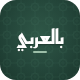
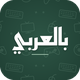
أيقونة جديدة (رسومات ألعاب خفيفة) + ربط تلقائي: الجوال يلقى شاشة إل جي ويفتح التطبيق بعنوانه
Claude-Session: https://claude.ai/code/session_01TLRLk8D8xChMBMkLz4H4wP

diff --git a/android/app/src/main/java/com/inarabic/lg/LgKeepAwake.kt b/android/app/src/main/java/com/inarabic/lg/LgKeepAwake.kt
@@ -10,6 +10,10 @@
 // device?"), and then every minute presses a key nobody uses (BLUE). If the TV still reports
 // "Screen Saver" / "Screen Off", it turns the screen straight back on.
 //
+// The same link also connects the TV app to the phone by itself (linkScreens): the phone finds the LG TVs on the
+// network (SSDP, the way LG's own remote app does), and opens «بالعربي» on them with the phone's address, so the
+// TV never has to look for the phone (its address may have changed since last time).
+//
 // The pairing manifest (assets/lg-remote-pairing.json) is the public one from the lgtv2 library (MIT).
 
 package com.inarabic.lg
@@ -67,6 +71,74 @@ object LgKeepAwake
 		prefs().getString("last_ip", null)?.let { start(context, it) } // the pointer socket presses once it opens
 	}
 
+	/**
+	 * Opens «بالعربي» on the LG TVs with this phone's address (the QR was scanned, "start playing" was tapped, or the
+	 * app was opened). [foregroundOnly]: only if our app is already on the TV screen (opening the phone app must not
+	 * take over a TV that is showing something else). [hint]: a TV address already known (from its QR).
+	 */
+	fun linkScreens(context: Context, foregroundOnly: Boolean, hint: String? = null)
+	{
+		appContext = context.applicationContext
+		if(com.inarabic.link.LinkServer.hasLgScreen()) return
+		Thread {
+			val ips = LinkedHashSet<String>()
+			hint?.takeIf { it.isNotBlank() }?.let { ips += it }
+			prefs().getString("last_ip", null)?.let { ips += it }
+			ips += findTvs(appContext!!)
+			Log.i(TAG, "link: TVs $ips")
+			synchronized(this) {
+				for(ip in ips)
+				{
+					// a TV that refused earlier (or gave up) is asked again: this time you asked for it
+					val tv = tvs[ip]?.takeIf { !it.closed } ?: Tv(ip).also { tvs[ip] = it; it.connect() }
+					tv.wantLaunch(foregroundOnly)
+				}
+			}
+		}.start()
+	}
+
+	/** LG TVs on the home network: they answer an SSDP search for their second-screen service */
+	private fun findTvs(context: Context): List<String>
+	{
+		val out = LinkedHashSet<String>()
+		val wifi = context.applicationContext.getSystemService(Context.WIFI_SERVICE) as android.net.wifi.WifiManager
+		val lock = try { wifi.createMulticastLock("inarabic-ssdp").apply { setReferenceCounted(false); acquire() } } catch(e: Exception) { null }
+		try
+		{
+			java.net.DatagramSocket().use { s ->
+				s.soTimeout = 600
+				val msg = ("M-SEARCH * HTTP/1.1\r\nHOST: 239.255.255.250:1900\r\nMAN: \"ssdp:discover\"\r\nMX: 1\r\n" +
+					"ST: urn:lge-com:service:webos-second-screen:1\r\n\r\n").toByteArray()
+				val group = java.net.InetAddress.getByName("239.255.255.250")
+				repeat(2) { s.send(java.net.DatagramPacket(msg, msg.size, group, 1900)) }
+				val end = System.currentTimeMillis() + 2500
+				val buf = ByteArray(2048)
+				while(System.currentTimeMillis() < end)
+				{
+					try
+					{
+						val pk = java.net.DatagramPacket(buf, buf.size)
+						s.receive(pk)
+						val txt = String(pk.data, 0, pk.length)
+						if(txt.contains("webos", true) || txt.contains("lge", true)) pk.address?.hostAddress?.let { out += it }
+					}
+					catch(e: java.net.SocketTimeoutException) { }
+				}
+			}
+		}
+		catch(e: Exception) { Log.w(TAG, "ssdp ${e.message}") }
+		finally { try { lock?.release() } catch(e: Exception) { } }
+		return out.toList()
+	}
+
+	/** this phone's address on the TV's network */
+	private fun phoneIpFor(tvIp: String): String?
+	{
+		val all = com.inarabic.link.LinkServer.addresses()
+		val net = tvIp.substringBeforeLast('.')
+		return all.firstOrNull { it.substringBeforeLast('.') == net } ?: all.firstOrNull()
+	}
+
 	/** no LG screen at this address any more */
 	@Synchronized fun stop(ip: String)
 	{
@@ -85,6 +157,31 @@ object LgKeepAwake
 		var secure = true
 		var unsigned = false
 		var nextId = 0
+		@Volatile var registered = false
+		/** open our app on the TV once registered: 0 no, 1 only if it is already on screen, 2 yes */
+		@Volatile var launchWanted = 0
+
+		fun wantLaunch(foregroundOnly: Boolean)
+		{
+			launchWanted = maxOf(launchWanted, if(foregroundOnly) 1 else 2)
+			if(registered) main?.let { doLaunch(it) }
+		}
+
+		fun doLaunch(c: WebSocketClient)
+		{
+			val w = launchWanted; launchWanted = 0
+			if(w == 0 || com.inarabic.link.LinkServer.hasLgScreen()) return
+			if(w == 1) send(c, "request", "fg", "ssap://com.webos.applicationManager/getForegroundAppInfo") else launch(c)
+		}
+
+		/** opens «بالعربي» on the TV (or wakes it if it is open) with the phone's address */
+		fun launch(c: WebSocketClient)
+		{
+			val phone = phoneIpFor(ip) ?: return
+			Log.i(TAG, "$ip: open the TV app, phone $phone")
+			send(c, "request", "launch${nextId++}", "ssap://system.launcher/launch",
+				JSONObject().put("id", "com.inarabic.lg").put("params", JSONObject().put("phone", phone)))
+		}
 
 		fun connect()
 		{
@@ -110,6 +207,7 @@ object LgKeepAwake
 
 		fun lost()
 		{
+			registered = false
 			task?.cancel(false); task = null
 			try { pointer?.close() } catch(e: Exception) { }
 			pointer = null
@@ -170,7 +268,10 @@ object LgKeepAwake
 					prefs().edit().putString("key_$ip", p.optString("client-key")).apply()
 					send(c, "request", "pointer", "ssap://com.webos.service.networkinput/getPointerInputSocket")
 					send(c, "subscribe", "power", "ssap://com.webos.service.tvpower/power/getPowerState")
+					registered = true
+					doLaunch(c)
 				}
+				id == "fg" -> if(p.optString("appId") == "com.inarabic.lg") launch(c)
 				id == "pointer" && p.optString("socketPath").isNotEmpty() -> openPointer(p.optString("socketPath"))
 				id == "power" ->
 				{
@@ -199,7 +300,7 @@ object LgKeepAwake
 			pointer = p
 			try { p.connect() } catch(e: Exception) { }
 			task?.cancel(false)
-			task = timer.scheduleAtFixedRate(Runnable { press() }, PRESS_EVERY_S, PRESS_EVERY_S, TimeUnit.SECONDS)
+			task = timer.scheduleAtFixedRate(Runnable { if(com.inarabic.link.LinkServer.hasLgScreen()) press() }, PRESS_EVERY_S, PRESS_EVERY_S, TimeUnit.SECONDS)
 		}
 
 		fun press()

diff --git a/lg/index.html b/lg/index.html
@@ -107,15 +107,17 @@
     for (var i = 0; i < 16; i++) cfg.token += '0123456789abcdef'.charAt(Math.floor(Math.random() * 16));
     store.set('token', cfg.token);
   }
-  // this screen's QR code: the phone scans it once and from then on accepts this screen
-  (function () {
+  // this screen's QR code: the phone scans it once and from then on accepts this screen; with the TV's own
+  // address in it (when the TV tells it), the phone reaches the TV straight away and gives it its address
+  function drawQr(tvIp) {
     try {
       var q = qrcode(0, 'M');
-      q.addData('inarabic:pair?t=' + cfg.token + '&n=' + encodeURIComponent('LG TV'));
+      q.addData('inarabic:pair?t=' + cfg.token + '&n=' + encodeURIComponent('LG TV') + (tvIp ? '&ip=' + tvIp : ''));
       q.make();
       $('qr').innerHTML = q.createSvgTag({ cellSize: 8, margin: 2, scalable: true });
     } catch (e) { $('qr').textContent = 'QR'; }
-  })();
+  }
+  drawQr('');
   function wsUrl(ip) { return 'ws://' + ip + ':' + PORT + '/?token=' + cfg.token + '&code=' + encodeURIComponent(cfg.code); }
   var style = { scale: 1, cover: true, opacity: 0.85, color: '#FFFFFF', pos: 'auto', bold: true };
 
@@ -554,6 +556,30 @@
     } catch (e) {}
   }
   noScreenSaver();
+
+  // the phone opened this app with its address (it found the TV on the network): use it, no searching
+  function launchParams(detail) {
+    var p = detail;
+    try {
+      if (!p || typeof p !== 'object') {
+        var raw = (window.webOSSystem && webOSSystem.launchParams) || (window.PalmSystem && PalmSystem.launchParams) || '{}';
+        p = typeof raw === 'string' ? JSON.parse(raw || '{}') : raw;
+      }
+    } catch (e) { p = {}; }
+    return p || {};
+  }
+  function fromPhone(p) {
+    if (!p || !p.phone || !/^\d+\.\d+\.\d+\.\d+$/.test(p.phone)) return false;
+    cfg.ip = p.phone; store.set('ip', cfg.ip); fails = 0;
+    status('الجوال أرسل عنوانه — جارٍ الاتصال…', true);
+    return true;
+  }
+  // already open: the phone opens it again with its address
+  document.addEventListener('webOSRelaunch', function (e) {
+    if (fromPhone(launchParams(e && e.detail)) && !(ws && ws.readyState === 1)) { searching = false; connect(); }
+  });
+  fromPhone(launchParams(null));
+  myIp(function (ip) { if (ip) drawQr(ip); });
 
   showGame();
   if (cfg.ip) connect(); else { openSetup(true); discover(); }

diff --git a/android/app/src/main/java/com/inarabic/link/Pairing.kt b/android/app/src/main/java/com/inarabic/link/Pairing.kt
@@ -1,5 +1,5 @@
 // SPDX-License-Identifier: LicenseRef-AGPL-3.0-only-OpenSSL
-// Pairing like a QR login: the TV app shows a QR code ("inarabic:pair?t=TOKEN&n=NAME"), the phone scans it with
+// Pairing like a QR login: the TV app shows a QR code ("inarabic:pair?t=TOKEN&n=NAME&ip=TV"), the phone scans it with
 // Google's code scanner (no camera permission needed) and from then on accepts that screen's token.
 
 package com.inarabic.link
@@ -51,6 +51,9 @@ object Pairing
 				val name = Uri.parse("http://x/?" + uri.encodedSchemeSpecificPart.substringAfter('?', "")).getQueryParameter("n") ?: "شاشة"
 				add(activity, token, name)
 				LinkServer.start(activity)
+				// the phone reaches the TV itself and opens «بالعربي» there with its address: no typing, no searching
+				val tvIp = Uri.parse("http://x/?" + uri.encodedSchemeSpecificPart.substringAfter('?', "")).getQueryParameter("ip")
+				com.inarabic.lg.LgKeepAwake.linkScreens(activity, foregroundOnly = false, hint = tvIp)
 				Toast.makeText(activity, "تم ربط «$name» ✓ — ستتصل خلال ثوانٍ", Toast.LENGTH_LONG).show()
 				onPaired(name)
 			}

diff --git a/android/app/src/main/java/com/metallic/chiaki/stream/StreamActivity.kt b/android/app/src/main/java/com/metallic/chiaki/stream/StreamActivity.kt
@@ -197,6 +197,8 @@ class StreamActivity : AppCompatActivity()
 		setupZoneEditor(iaPrefs)
 		// "start playing": a press on the LG TV at once (out of its screen saver), then every minute as before
 		com.inarabic.lg.LgKeepAwake.pressNow(this)
+		// and «بالعربي» opened on the LG TV with the phone's address, if it is not linked yet
+		com.inarabic.lg.LgKeepAwake.linkScreens(this, foregroundOnly = false)
 		// In Arabic: no on-screen game buttons (you play with the controller); one clear menu button instead
 		viewModel.setOnScreenControlsEnabled(false)
 		viewModel.setTouchpadOnlyEnabled(false)

diff --git a/android/app/src/main/java/com/metallic/chiaki/main/MainActivity.kt b/android/app/src/main/java/com/metallic/chiaki/main/MainActivity.kt
@@ -38,6 +38,8 @@ class MainActivity : AppCompatActivity()
 		super.onCreate(savedInstanceState)
 		if(savedInstanceState == null && !com.inarabic.SetupActivity.done(this)) startActivity(Intent(this, com.inarabic.SetupActivity::class.java))
 		com.inarabic.link.LinkServer.start(this) // TVs can connect as soon as the app is open
+		// «بالعربي» already open on an LG TV but not linked (the phone's address changed): give it the address
+		com.inarabic.lg.LgKeepAwake.linkScreens(this, foregroundOnly = true)
 		binding = ActivityMainBinding.inflate(layoutInflater)
 		setContentView(binding.root)
 

diff --git a/android/app/src/main/java/com/inarabic/link/LinkServer.kt b/android/app/src/main/java/com/inarabic/link/LinkServer.kt
@@ -50,6 +50,8 @@ object LinkServer
 	val screens = mutableMapOf<WebSocket, String>()
 	/** LG screens and their addresses (kept awake from the phone, see LgKeepAwake) */
 	private val lgScreens = mutableMapOf<WebSocket, String>()
+	/** an LG TV app is connected now */
+	fun hasLgScreen() = synchronized(lgScreens) { lgScreens.isNotEmpty() }
 	var onScreensChanged: (() -> Unit)? = null
 
 	private var appContext: Context? = null
